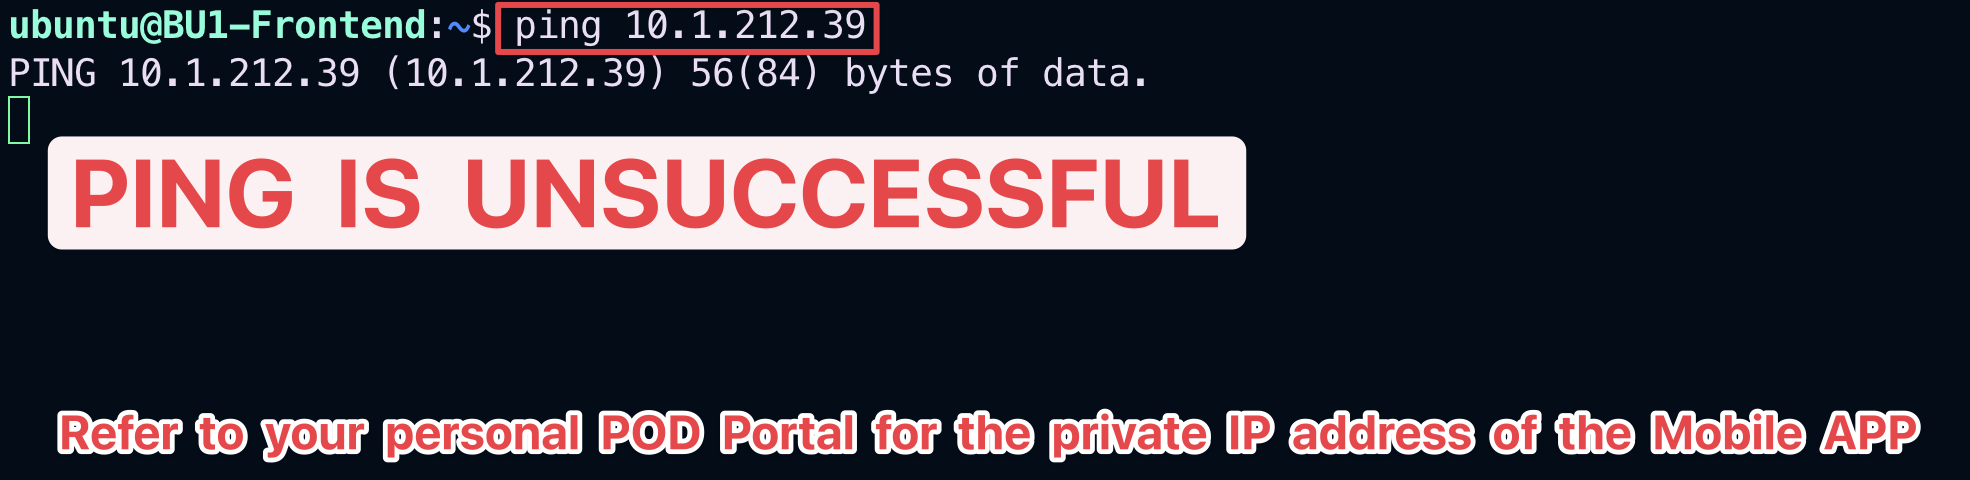
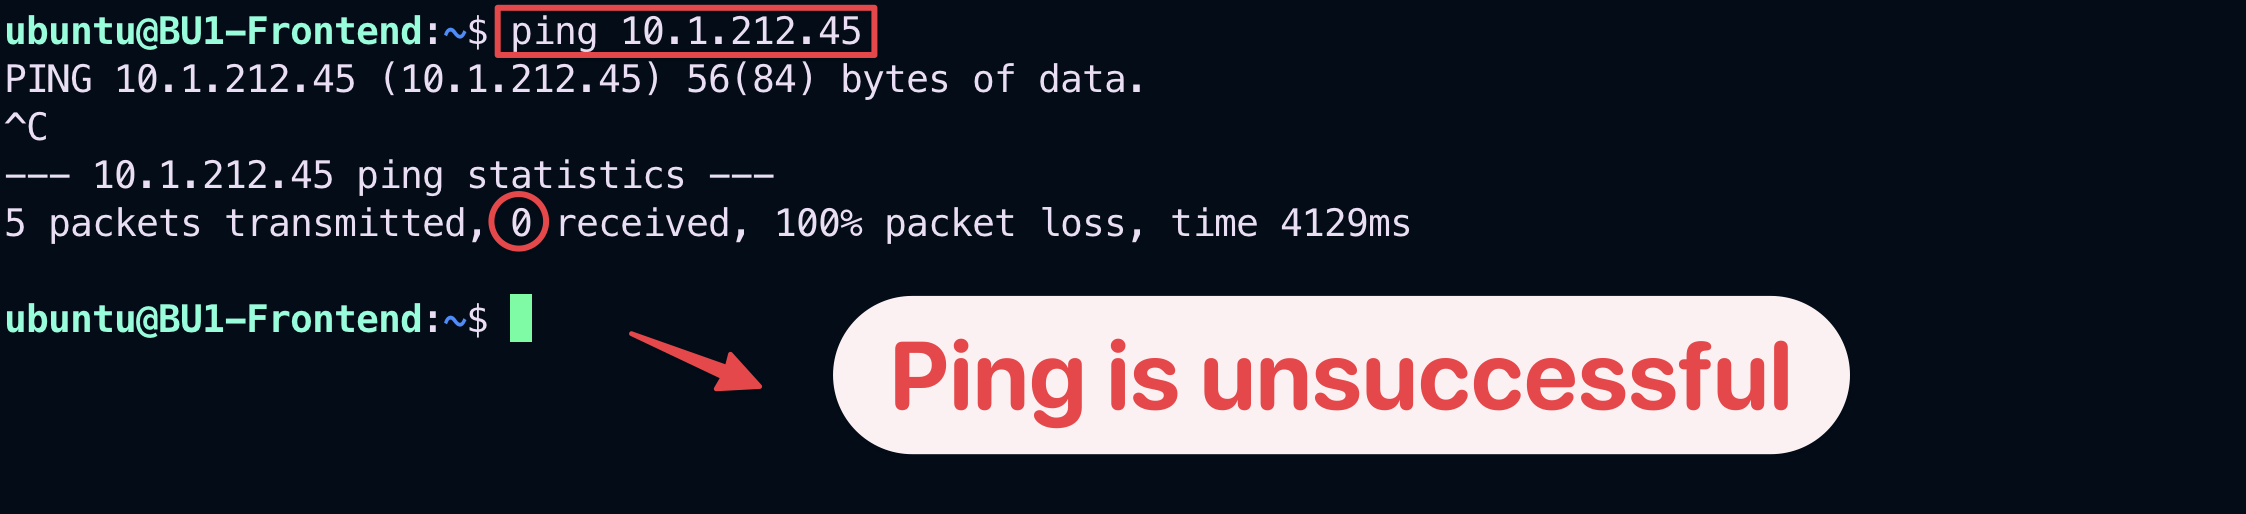
update for ops

diff --git a/ace_ops/docs/lab4.md b/ace_ops/docs/lab4.md
@@ -2,7 +2,7 @@
 
 ## 1. SCENARIO
 
-BU1 and BU2 were able to communicate as end of Lab3.
+**BU1** and **BU2** were able to communicate as end of Lab3.
 
 Unfortunately, the network team received another complaint from BU1 Frontend Team that BU2 Mobile App was no longer reachable.
 
@@ -18,13 +18,20 @@ Lab 4 Topology
 
 - Verify that the connectivity between **BU1 Frontend** and **BU2 Mobile App** is actually broken.
 
-  - SSH to BU1 Frontend and launch ping/ssh to BU2 Mobile App.
+  - SSH to BU1 Frontend and launch ping/traceroute to BU2 Mobile App.
 
 ```{figure} images/lab4-pingunsucc.png
 ---
 align: center
 ---
 Ping fails
+```
+
+```{figure} images/lab4-pingunsucc00.png
+---
+align: center
+---
+Traceroute outcome
 ```
 
 ```{important}
@@ -36,6 +43,13 @@ Remember that all Aviatrix gateways include built-in enterprise-grade tools, suc
 align: center
 ---
 Ping from the Spoke1
+```
+
+```{figure} images/lab4-traceroute283.png
+---
+align: center
+---
+Traceroute from the Spoke1
 ```
 
 - Check whether both **AWS Spoke1** and **AWS Spoke2** have the required routes installed in their RTBs or not.
